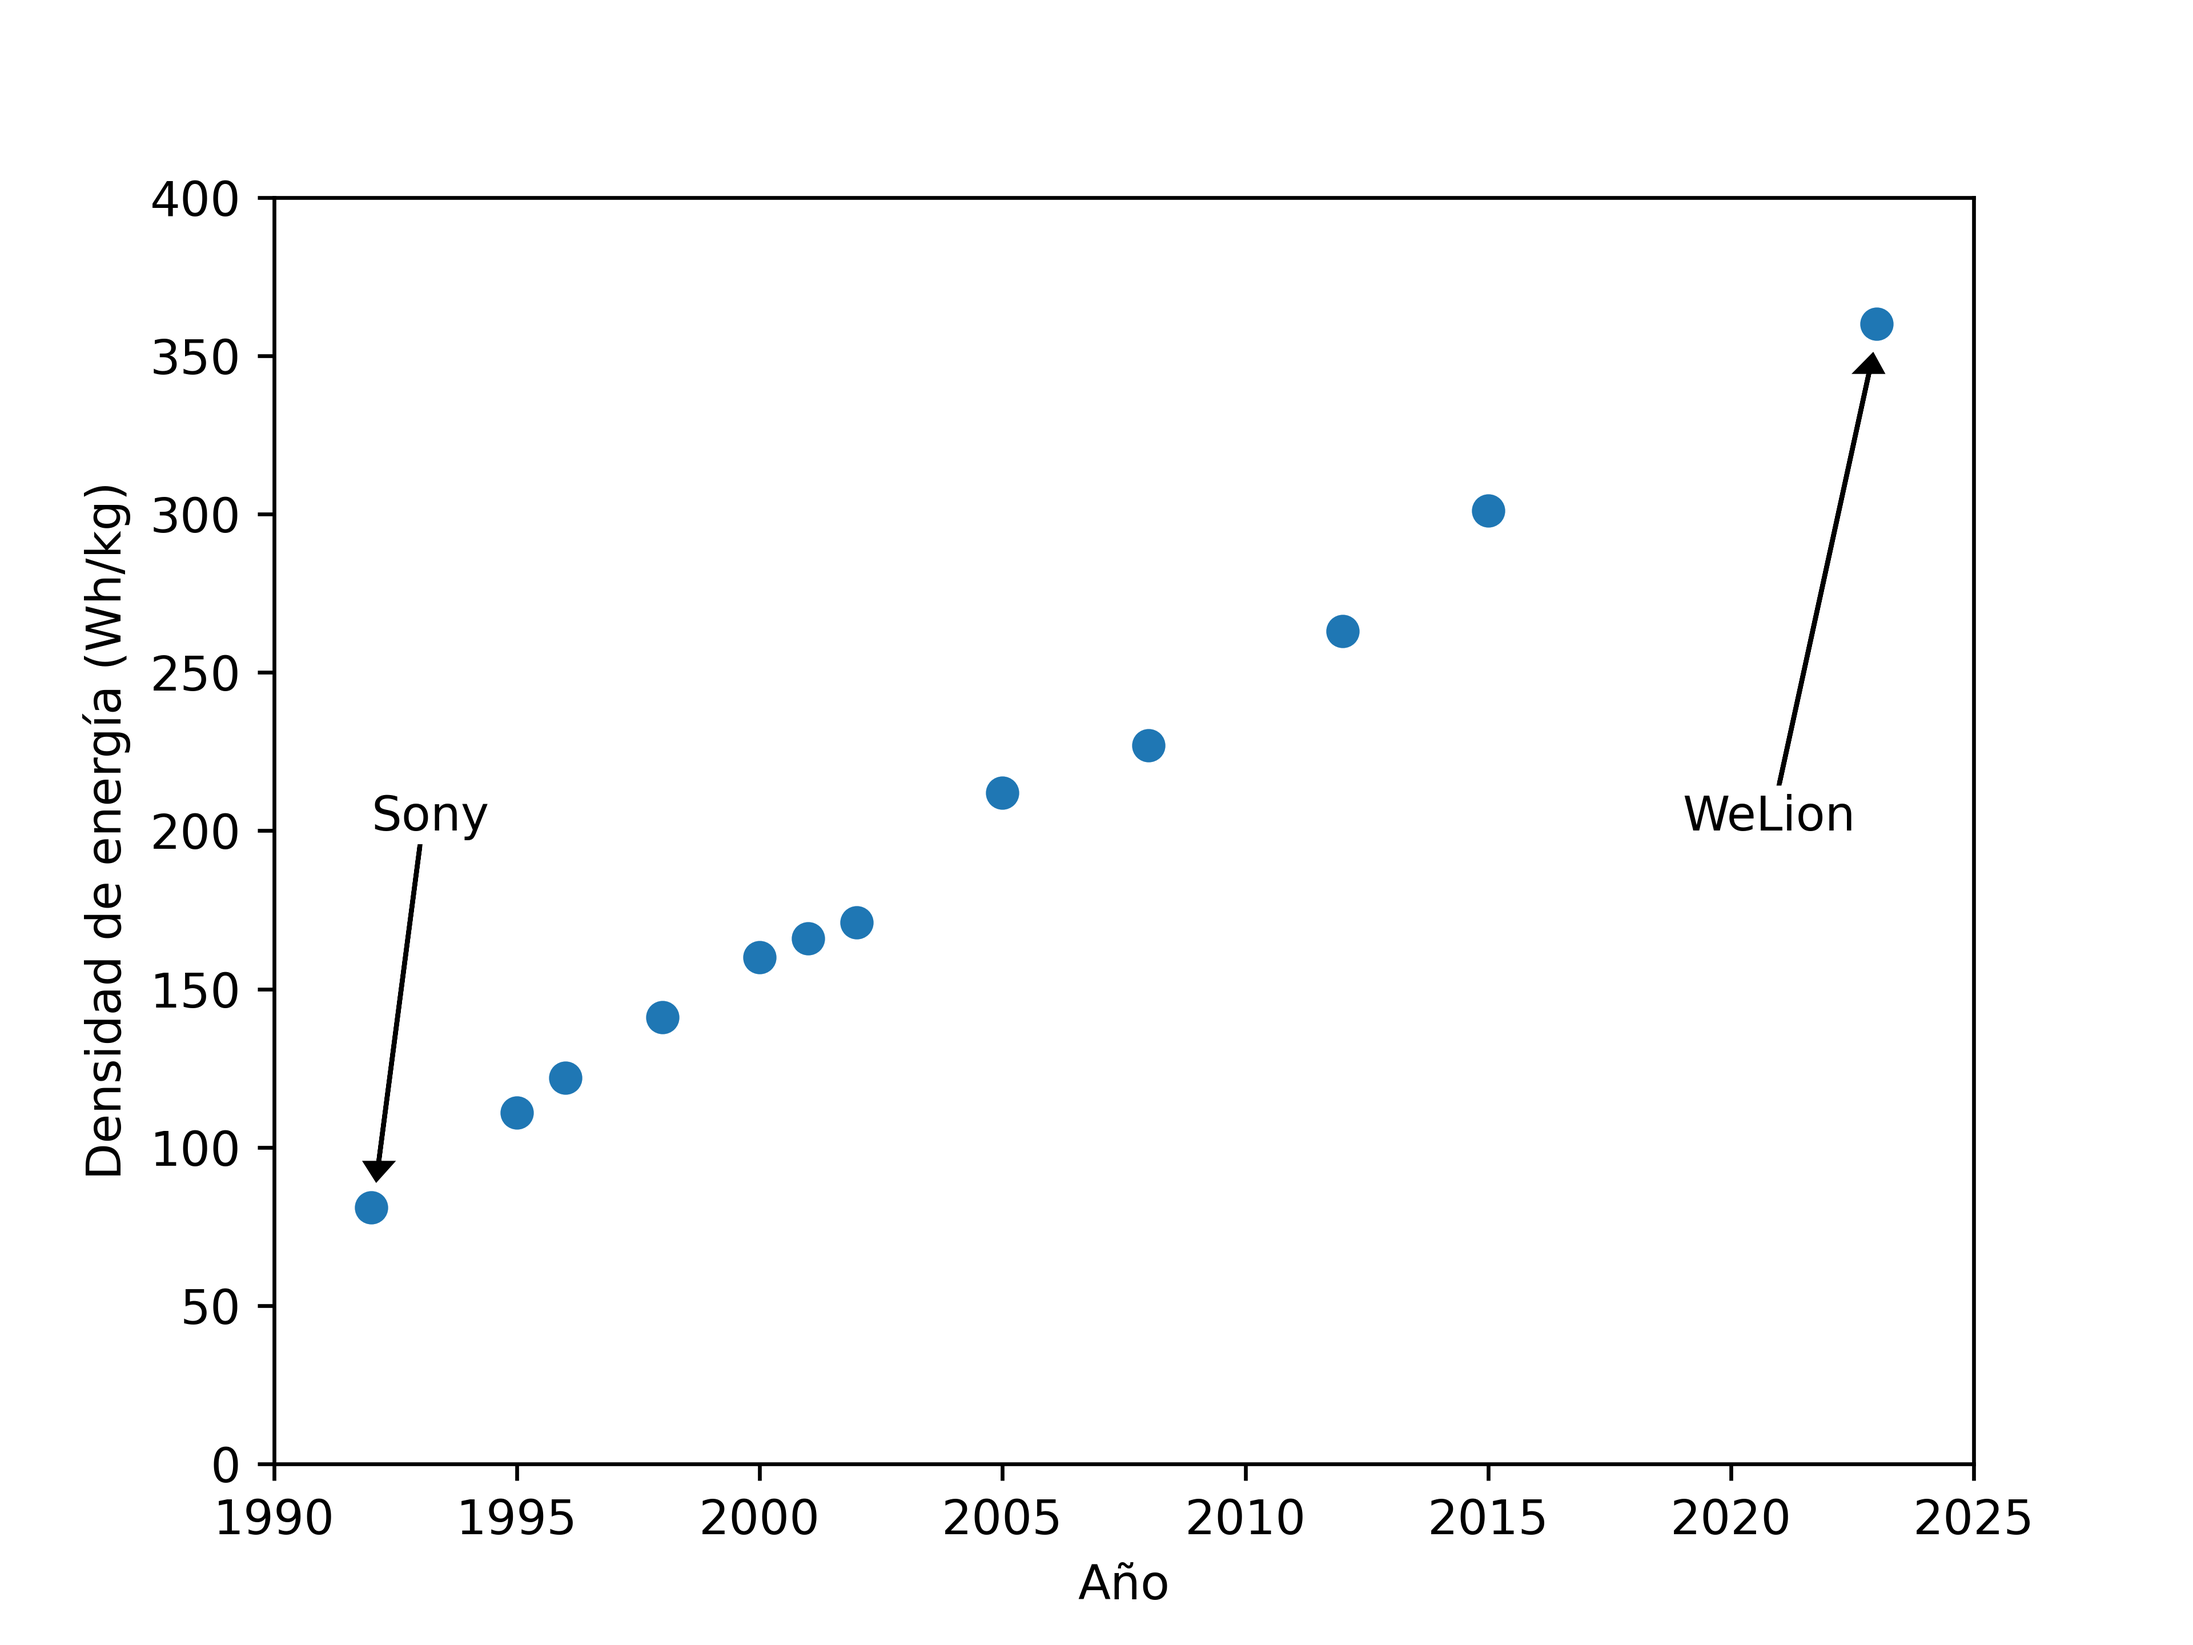
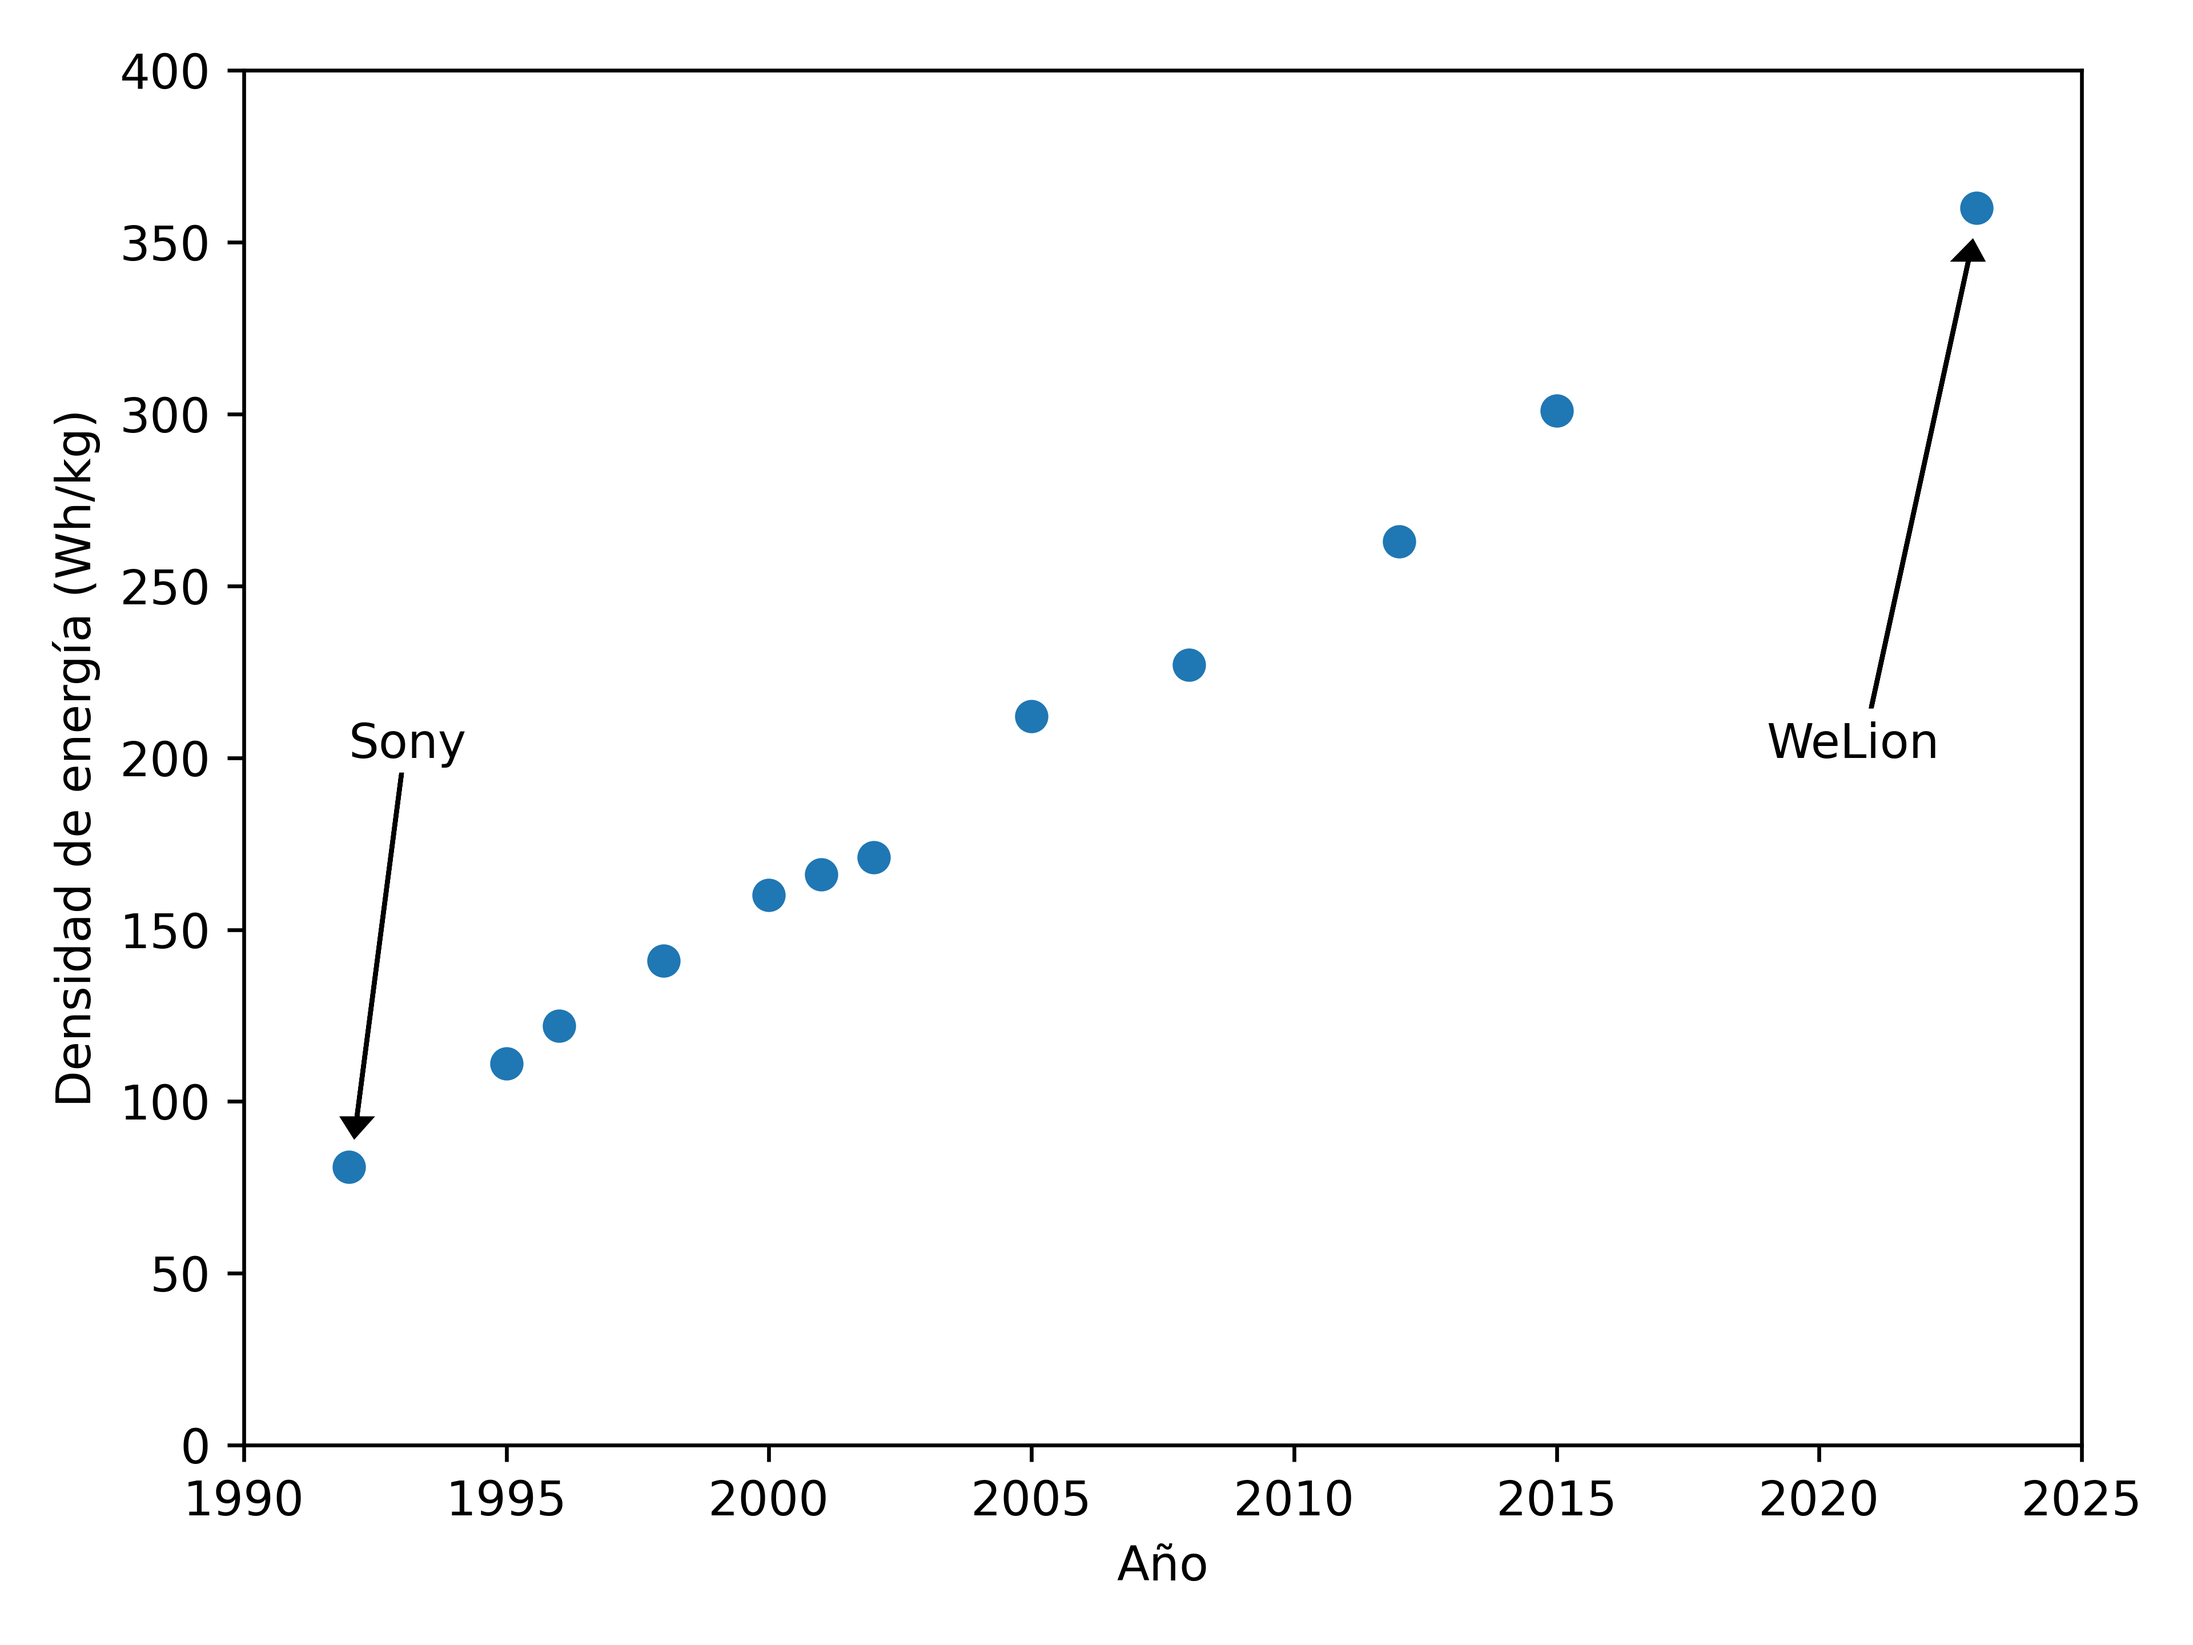
intro py

diff --git a/src/Introduccion/baterias/whkg.py b/src/Introduccion/baterias/whkg.py
@@ -6,34 +6,21 @@
 #   https://github.com/fernandezfran/thesis/blob/main/LICENSE
 import matplotlib.pyplot as plt
 
-for year, whkg in [
-    (1992, 81),
-    (1995, 111),
-    (1996, 122),
-    (1998, 141),
-    (2000, 160),
-    (2001, 166),
-    (2002, 171),
-    (2005, 212),
-    (2008, 227),
-    (2012, 263),
-    (2015, 301),
-    (2023, 360),
-]:
-    if year == 1992:
-        x, y = 1992, 200
-        plt.text(x, y, "Sony")
-        plt.arrow(x + 1, y - 5, -0.85, -100, fc="k", head_width=0.5, head_length=5)
-    elif year == 2023:
-        x, y = 2019, 200
-        plt.text(2019, 200, "WeLion")
-        plt.arrow(x + 2, y + 15, 1.85, 130, fc="k", head_width=0.5, head_length=5)
+years = [1992, 1995, 1996, 1998, 2000, 2001, 2002, 2005, 2008, 2012, 2015, 2023]
+whkg = [81, 111, 122, 141, 160, 166, 171, 212, 227, 263, 301, 360]
 
-    plt.scatter(year, whkg, c="tab:blue")
+plt.scatter(years, whkg, c="tab:blue")
+
+plt.text(1992, 200, "Sony")
+plt.arrow(1993, 195, -0.85, -100, fc="k", head_width=0.5, head_length=5)
+
+plt.text(2019, 200, "WeLion")
+plt.arrow(2021, 215, 1.85, 130, fc="k", head_width=0.5, head_length=5)
 
 plt.xticks(range(1990, 2026, 5))
 plt.xlabel("Año")
 plt.ylabel("Densidad de energía (Wh/kg)")
 plt.ylim((0, 400))
 
+plt.tight_layout()
 plt.savefig("whkg.png", dpi=600)

diff --git a/src/Introduccion/energia/ev-value.py b/src/Introduccion/energia/ev-value.py
@@ -12,18 +12,21 @@ plt.rcParams.update({"font.size": 12})
 
 fig, ax = plt.subplots()
 
-for f, l in zip(
-    [f"{v}-value.csv" for v in ("ev", "combustion")],
-    ["eléctrico", "a combustión interna"],
+for file, label in zip(
+    ["ev-value.csv", "combustion-value.csv"],
+    ["eléctrico", "a combustión interna"]
 ):
-    df = pd.read_csv(f)
+    dataset = pd.read_csv(file)
 
-    cheby = np.polynomial.chebyshev.Chebyshev.fit(df.year, df.cost, deg=4)
+    cheby = np.polynomial.chebyshev.Chebyshev.fit(
+        dataset.year, dataset.cost, deg=4
+    )
 
-    ax.plot(df.year, cheby(df.year), lw=2, label=l)
+    ax.plot(dataset.year, cheby(dataset.year), lw=2, label=label)
 
 ax.set_xticks(range(2016, 2031, 2))
 ax.set_xlabel("Año")
+
 ax.set_ylim((0, 45000))
 ax.set_ylabel("Costo de vehículos medianos (USD$)")
 
@@ -31,4 +34,3 @@ ax.legend(title="Vehículo")
 
 fig.tight_layout()
 fig.savefig("ev-value.png", dpi=600)
-plt.show()

diff --git a/src/Introduccion/energia/iea-Li.py b/src/Introduccion/energia/iea-Li.py
@@ -16,7 +16,7 @@ df = pd.DataFrame(
     }
 )
 
-print((df["ev"] + df["es"] + df["ed"]).pct_change())
+print((df[["ev", "es", "ed"]]).pct_change())
 
 categorias = [
     "Vehículos eléctricos",
@@ -29,13 +29,20 @@ fig, ax = plt.subplots()
 
 ax.bar(df["year"], heights[0], label=categorias[0], width=1.5)
 for i in range(1, len(categorias)):
-    ax.bar(df["year"], heights[i], width=1.5, bottom=sum(heights[:i]), label=categorias[i])
+    ax.bar(
+        df["year"],
+        heights[i],
+        width=1.5,
+        bottom=sum(heights[:i]),
+        label=categorias[i],
+    )
 
 ax.set_xticks(df["year"])
 ax.set_xlabel("Año")
+
 ax.set_ylabel("Demanda total de litio (kt)")
+
 ax.legend()
 
 fig.tight_layout()
 fig.savefig("iea-Li.png", dpi=600)
-plt.show()

diff --git a/src/Introduccion/energia/ev-volumes.py b/src/Introduccion/energia/ev-volumes.py
@@ -10,18 +10,18 @@ import numpy as np
 plt.rcParams.update({"font.size": 12})
 
 years = np.arange(2014, 2024)
-sales = 1_000 * np.array([320, 543, 791, 1262, 2082, 2276, 3245, 6768, 10532, 14000])
+sales = np.array([320, 543, 791, 1262, 2082, 2276, 3245, 6768, 10532, 14000])
 
 print(np.diff(sales) / sales[1:])
 
 fig, ax = plt.subplots()
 
-ax.bar(years, sales, width=0.6)
+ax.bar(years, 1000 * sales, width=0.6)
 
 ax.set_xticks(years)
 ax.set_xlabel("Año")
+
 ax.set_ylabel("Ventas anuales de vehículos eléctricos")
 
 fig.tight_layout()
 fig.savefig("ev-volumes.png", dpi=600)
-plt.show()

diff --git a/src/Introduccion/baterias/scopus_datasets/npubs.py b/src/Introduccion/baterias/scopus_datasets/npubs.py
@@ -17,11 +17,13 @@ markers = ["s", "^", "o"]
 labels = ["LIBs", "Carga rápida", "Ánodos de Si"]
 
 fig, ax = plt.subplots()
+
 for file, marker, label in zip(files, markers, labels):
-    df = pd.read_csv(file)
+    dataset = pd.read_csv(file)
+
     ax.plot(
-        df["year"],
-        df["npub"] / df["npub"].iloc[-1],
+        dataset["year"],
+        dataset["npub"] / dataset["npub"].iloc[-1],
         marker=marker,
         ls="--",
         label=label,
@@ -38,5 +40,3 @@ ax.set_yscale("log")
 
 fig.tight_layout()
 fig.savefig("../scopus.png", dpi=600)
-
-plt.show()

diff --git a/src/Introduccion/baterias/scopus_datasets/analisis.py b/src/Introduccion/baterias/scopus_datasets/analisis.py
@@ -14,10 +14,7 @@ files = [
 
 print("archivo: % promedio de incremento anual")
 for file in files:
-    df = pd.read_csv(file)
+    dataset = pd.read_csv(file)
+    dataset = dataset.sort_values(by="year", ascending=True)
 
-    df = df.sort_values(by="year", ascending=True)
-
-    df["pct_change"] = df["npub"].pct_change()
-
-    print(f"{file}: {df['pct_change'][10:].mean():.2f}")
+    print(f"{file}: {dataset.npub.pct_change()[10:].mean():.2f}")
